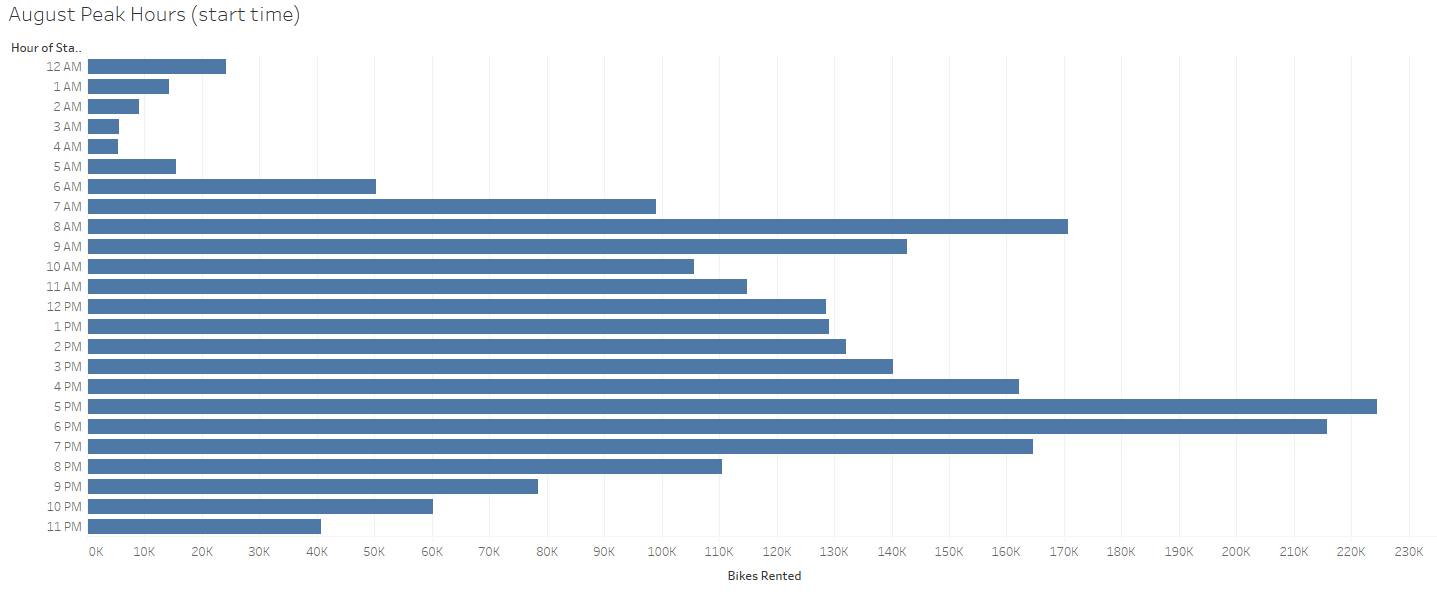
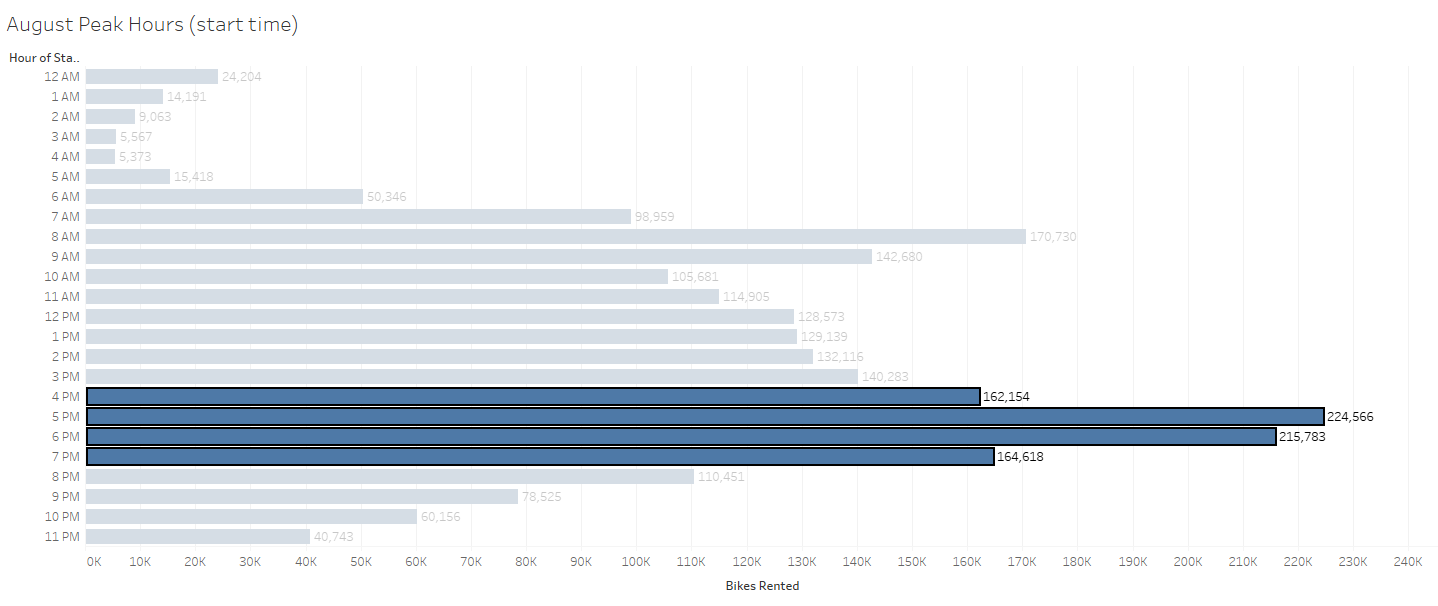
D3: completed

Changed region(s): [[0.0, 0.0, 1.0, 0.9966]]

diff --git a/README.md b/README.md
@@ -1,15 +1,13 @@
 # bikesharing
-Create our own bike sharing service
+Create our own bike sharing service in Des Moines, IA
 ## Project Overview
- The goal is to pry a few bucks from some tightwad investor to create a Bike Share service.
-
-
+ After the initial presentation for starting a bike sharing service in Des Moines a key investor is looking for more insight and has requested a bike trip analysis.  To meet this requirement we have created additional visualizations and tied them together in a Tableau story.
 
 
 ## Results
+The additional analysis has yielded some interesting insights which can be levered in planning the Des Moines startup. 
 
-
-* Say something pithy about: Top Starting Locations
+* Every trip start somewhere and what's clear is some locations will have higher traffic. Space at each location will be limited; backup capacity and refill timing is key to prevent shortages.
     <details><summary>Top Starting Locations</summary>
     <p>
 
@@ -18,7 +16,7 @@ Create our own bike sharing service
     </p>
     </details>
 
-* Say something urgent about: Peak Hours
+* In conjunction with where bikes are rented, when is also important.  Approximately one third of rentals occur in the peak afternoon hours.  Increased staff availability at key locations at peak hours will substantially improve the customer experience and drive repeat business.
     <details><summary>August Peak Hours</summary>
     <p>
 
@@ -27,7 +25,7 @@ Create our own bike sharing service
     </p>
     </details>
 
-* Say something urgent about: Checkout Times for Users
+* Rides are generally short in NYC with rides greater than 30 minutes rare.  Thus bikes are available for redeployment fairly quickly.  Estimating ride times in Des Moines based on the city size and density is required.
     <details><summary>Checkout Times</summary>
     <p>
 
@@ -36,7 +34,7 @@ Create our own bike sharing service
     </p>
     </details>
 
-* Say something urgent about: Checkout Times by Gender
+* There is a large dependence on male renters; this needs to more balanced in Des Moines.   A combination marketing / research campaign should be used to address this.  Essential - what would prompt female riders to rent a bike?
     <details><summary>Checkout Times by Gender</summary>
     <p>
 
@@ -45,7 +43,7 @@ Create our own bike sharing service
     </p>
     </details>
 
-* Say something urgent about: Weekday Trips per Hour
+* This heat map provides additional details into the Peak Hour chart above.  Weekdays have higher activity, indicating a strong correlation to commuters.  Would Des Moines have a similar profile? 
     <details><summary>Weekday Trips per Hour (heatmap)</summary>
     <p>
 
@@ -54,7 +52,7 @@ Create our own bike sharing service
     </p>
     </details>
 
-* Say something urgent about: Weekday Trips per Hour by Gender
+* This heat map provides further insight into the observation that weekday male commuters dominate the business in NYC.  
     <details><summary>Weekday Trips per Hour by Gender (heatmap)</summary>
     <p>
 
@@ -63,7 +61,7 @@ Create our own bike sharing service
     </p>
     </details>
 
-* Say something urgent about: User Type by Weekday and Gender
+* This heat map provides insight into the client type: Subscriber v. Ad-Hoc. The NYC business is heavily dependent on male subscribers.  It is likely Des Moines will need to diversify their client base.
     <details><summary>User Type by Weekday and Gender (heatmap)</summary>
     <p>
 
@@ -74,21 +72,27 @@ Create our own bike sharing service
 
 
 
+The complete presentation can be found at [Tableau Public](https://public.tableau.com/app/profile/alan.goldberg/viz/BikeTripAnalysis_16254215688020/TheTripDurationStory "CTRL+click to open in a new tab")
+
+
 
 
 Observations:
-   * need bikes
-   * market to more woman to increase usage
-   * peak usage demand, need to:
-       
-      - Have sufficient bikes at peak locations at peak hours.
-    
-      - Relocate bikes from drop off locations to peak rental points
+   * The density, size and life styles of Des Moines will require adjusting the product offering compared to NYC.
+   * It is essential to have sufficient bikes available at peak locations at peak hours.
+   * Increasing the rentals of female riders and off hour usage will increase profitability.
+   * Driving usage on the weekends is another revenue growth area - investigate coordinating rentals with popular events in the city.
+
 
 ## Summary
-Excellent opportunity.  Give us money.
+There is an opportunity to start up a bike sharing service, but the differences between NYC and Des Moines will require a different approach and business model to attain profitability. 
+
+   * Recommended follow up analyses: 
+     - Forecast high volume starting points in Des Moines
+     - Forecast average ride duration in Des Moines
+     - Research and identify opportunities to drive off-hour and weekend usage and co-marketing options.
 
  ## Resources
- Data: August 2019 Citi Bike Rental metrics
+ Data: August 2019 [Citi Bike Trip History](https://www.citibikenyc.com/system-data "CTRL+click to open in a new tab")
 
  Software: Python 3.7.10, Jupyter Notebook 6.3, pandas 1.2.4, Git Bash 4.4.23, Tableau Public 2021.2.0
